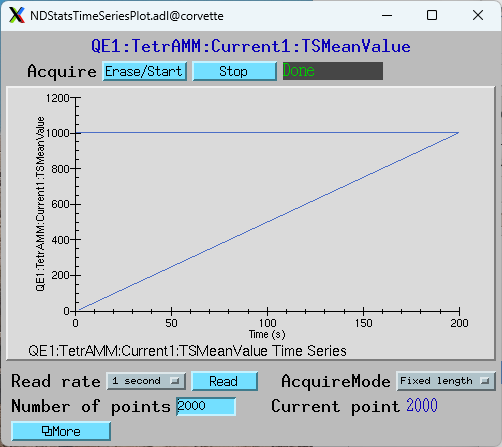
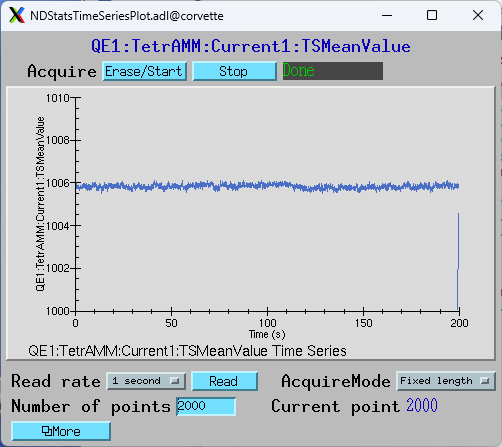
Add changes for b0511cdf89a5fc7938ce556146a25672b5e28608

diff --git a/searchindex.js b/searchindex.js
@@ -1,1 +1,1 @@
-Search.setIndex({"alltitles":{"AH401 and AH501 Series Setup":[[7,"ah401-and-ah501-series-setup"]],"AH401B":[[5,"ah401b"]],"Averaging":[[0,null]],"Databases":[[1,null]],"FX4 Setup":[[7,"fx4-setup"]],"Fly scan in external triggered mode with the statistics plugin":[[10,"fly-scan-in-external-triggered-mode-with-the-statistics-plugin"]],"Fly scan with quadEM in free-run mode":[[10,"fly-scan-with-quadem-in-free-run-mode"]],"NSLS2_EM Setup":[[7,"nsls2-em-setup"]],"NSLS_EM Setup":[[7,"nsls-em-setup"]],"Overview":[[4,null]],"Performance":[[5,null]],"Plugins":[[6,null]],"Scanning with the TetrAMM or FX4":[[10,null]],"Setup":[[7,null]],"Step scan with quadEM in single acquire mode":[[10,"step-scan-with-quadem-in-single-acquire-mode"]],"Streaming data to disk":[[8,null]],"Table of Contents":[[3,"table-of-contents"]],"TetrAMM":[[5,"tetramm"]],"TetrAMM Setup":[[7,"tetramm-setup"]],"TetrAMM and FX4 Trigger Modes":[[9,null]],"Using Feedback":[[2,null]],"quadEM":[[3,null]],"quadEM.template":[[1,"quadem-template"]]},"docnames":["averaging","databases","feedback","index","overview","performance","plugins","setup","streaming","tetramm_modes","tetramm_scanning"],"envversion":{"sphinx":66,"sphinx.domains.c":3,"sphinx.domains.changeset":1,"sphinx.domains.citation":1,"sphinx.domains.cpp":9,"sphinx.domains.index":1,"sphinx.domains.javascript":3,"sphinx.domains.math":2,"sphinx.domains.python":4,"sphinx.domains.rst":2,"sphinx.domains.std":2},"filenames":["averaging.rst","databases.rst","feedback.rst","index.rst","overview.rst","performance.rst","plugins.rst","setup.rst","streaming.rst","tetramm_modes.rst","tetramm_scanning.rst"],"indexentries":{},"objects":{},"objnames":{},"objtypes":{},"terms":{"0004s":1,"000s":1,"001s":1,"1000hz":6,"100na":1,"100ua":1,"10hz":4,"10ma":1,"10ua":1,"120na":1,"120ua":1,"1e":1,"1e12":1,"1e9":1,"1ma":1,"1ua":1,"20000hz":6,"500hz":4,"50e":8,"53ghz":5,"5ma":1,"5na":1,"5ua":1,"A":[1,2,4,7],"All":[1,6,7],"An":[1,7],"As":[1,8],"Both":[1,7],"Each":[4,7,9,10],"For":[1,4,6,9,10],"I":[1,2,4,9],"If":[1,7],"In":[1,4,6,8,10],"It":[0,1,4,5,6,7,8],"More":10,"Most":1,"No":4,"Off":1,"On":1,"That":[5,7,10],"The":[0,1,2,4,5,6,7,8,9,10],"There":[1,4,10],"These":[1,2,4,7,8],"They":[1,2,4,7],"This":[0,1,2,4,5,6,7,8,9,10],"To":[7,10],"Up":7,"We":8,"When":[4,6,7,9],"While":10,"With":10,"_rbv":1,"ab":8,"abl":1,"abov":[1,4,6,10],"absolut":8,"acceler":10,"access":[1,4,7],"accumul":[1,4,6],"accuraci":10,"acquir":[1,3],"acquiremod":[1,9,10],"acquiremode_rbv":1,"acquisit":[1,4,6,9,10],"actual":[1,7,10],"actuat":2,"adc":[1,4,9,10],"adcoffset":1,"adcor":[1,4,6,7,8],"add":[1,4],"addit":[0,4,6,7],"addr":1,"address":[6,7,8],"adjust":2,"adl":10,"ah401":[1,3,4,6],"ah401b":[1,3,4,7],"ah401d":[1,4],"ah501":[1,3,4,6],"ah501b":1,"ah501c":[1,4],"ah501d":[1,4],"ahxxx":7,"ai":[1,4],"algorithm":1,"allow":[1,4],"almost":8,"alreadi":1,"also":[1,4,6],"alway":1,"amp":[1,4],"amplifi":[1,4],"analog":4,"ani":[1,2,4,6],"anoth":4,"ao":1,"api":4,"appear":1,"appli":1,"applic":[4,6],"approxim":2,"aquisit":10,"arang":8,"arbitrarili":4,"areadetector":[1,4,6],"argument":1,"arrang":4,"array":[1,4,6,8],"arriv":[0,1,8],"ascii":[1,4],"assert":1,"assum":4,"asyn":[1,4,6],"asynfloat64":[1,4],"asynfloat64averag":[0,4],"asyngenericpoint":4,"asynint32":1,"asynndarraydriv":4,"asynoctet":1,"asynportdriv":4,"attribut":[2,8],"author":3,"auto":8,"automat":[1,8],"autosav":6,"avail":[1,4,6],"ave":[1,2],"averag":[1,2,3,4,6,10],"averagingtim":[0,1,4,5,6,8,10],"averagingtime_rbv":1,"avoid":1,"axe":1,"axi":[4,8],"b4":4,"back":1,"backward":8,"bandwidth":0,"base":[4,8,10],"beam":[2,4],"becaus":[1,4,6,8,10],"befor":[1,10],"begin":[1,4],"behavior":2,"bi":1,"bias":[1,4],"biasinterlock":1,"biasinterlock_rbv":1,"biasstat":1,"biasstate_rbv":1,"biasvoltag":1,"biasvoltage_rbv":1,"binari":[1,4],"binary4":5,"bit":[1,4,8],"blue":8,"bo":1,"bpm":2,"broadcast":7,"buffer":[1,4,5,6],"bug":10,"built":4,"bulb":1,"busi":1,"button":8,"bw":1,"c":8,"caen":7,"caenel":4,"calcout":1,"calcul":[1,4,8],"calibr":1,"calibrationmod":1,"call":[1,4,6,7,8],"callback":[1,4,6,8],"callbacksblock":4,"came":10,"can":[0,1,2,4,5,6,7,8,9,10],"canda":8,"capacitor":[1,4],"case":[1,2,4,5,6,10],"center":1,"chamber":[2,4],"chang":[1,4,7,8,10],"channel":[1,4,7],"charact":1,"charg":1,"chicago":3,"chip":4,"choic":1,"circular":[5,6],"class":4,"client":[1,4],"clock":7,"close":[1,7],"cmd":[4,6,7,8],"code":8,"collect":[0,1,6,8,10],"color":8,"column":8,"combin":4,"come":10,"command":[1,7],"commer":4,"common":10,"commonplugin":[4,6,7,8],"communic":[4,7],"compil":8,"complet":[1,9,10],"comptab":4,"comput":[1,4,6,8,10],"computecurrentoffset":1,"computeposoffset":1,"conda":8,"condit":[1,4,5],"configur":[1,4,6,7,8,9,10],"configuretrigg":7,"connect":7,"consist":4,"constructor":[1,4,6],"contain":[4,6,7,8],"content":8,"continu":[1,6,9,10],"control":[1,2,6,10],"conveni":1,"convent":8,"convert":[1,2,8],"copi":[1,4,6],"copyadcoffset":1,"core":[4,5],"correct":[1,7],"correspond":4,"corrupt":[1,4],"corvett":8,"count":[7,10],"counter":[1,7,9],"counterclockwis":4,"cp":2,"cpu":[1,4,5,7],"cpus":4,"crystal":2,"ctr08":10,"current":[1,2,4,6,7,8,10],"current1":[6,10],"currentnam":1,"currentoffset":1,"currentprec":1,"currentprec1":1,"currentprec2":1,"currentprec3":1,"currentscal":1,"currentunit":1,"currentunits_rbv":1,"custom":[1,4],"cycl":[1,10],"d":[1,2,8],"d1":[1,7,9],"data":[0,1,3,4,5,6,7,9,10],"databas":[3,4,7],"dataset":8,"dataspac":8,"datatyp":[6,8],"date":1,"dc":[6,8],"ddli":10,"deceler":10,"decreas":1,"default":[1,7,8],"defin":[1,4,6],"delay":10,"delimit":1,"depend":[0,1,2,4,6,7],"deriv":4,"describ":[4,9,10],"descript":[0,1,2,6],"design":[4,10],"desir":[2,7],"detail":4,"detect":1,"detector":[4,8,10],"determin":[1,4,6,7],"deviat":[1,4,6],"devic":[0,1,2,4,6,7,8],"dhcp":7,"diagram":4,"diamond":[1,4],"diff":[1,4,6],"diff12":4,"diff34":4,"differ":[0,1,4,6,8,9],"diffi":[1,4,6],"diffx":[1,4,6],"digit":[1,4,6,7,9],"digital_expans":7,"dimens":[4,6,8],"diod":[4,8],"direct":4,"directori":7,"disabl":[1,6],"disadvantag":1,"discard":1,"discuss":[1,4],"disk":[3,4],"display":[1,6,8],"divid":[4,6],"divisor":4,"document":4,"doe":[1,4,6,7,8,9],"done":[1,4,7],"doubl":[1,8],"download":1,"driver":[0,1,4,6,7,8,9],"drop":[1,7],"drvasynipportconfigur":7,"drvinfo":1,"drvquadem":4,"due":8,"durat":8,"dure":10,"duti":1,"e":[7,8,10],"e5630":5,"edg":[1,7,9,10],"edit":7,"effect":1,"effici":4,"either":[4,7],"el":7,"elaps":[1,10],"electomet":5,"electromet":[1,4],"element":8,"elettra":4,"els":8,"enabl":[1,5,6,7],"enablecallback":6,"encod":[1,7],"end":[1,8,10],"endian":8,"engin":1,"enough":1,"entri":8,"ep":4,"epic":[1,4,7,8,9],"epicsfloat64":6,"epid":[1,2],"equal":1,"equat":1,"equival":9,"erasestart":10,"etc":[1,4,6,7,10],"ethernet":4,"even":[8,10],"event":1,"everi":[1,4],"everyth":8,"exact":1,"exampl":[0,1,2,4,6,7,8,10],"except":[1,6,8],"exclus":8,"exist":1,"expens":[0,1],"explain":8,"ext":[1,10],"extern":[1,3,4,7],"external_clock_edge_select":7,"externalbulb":1,"externaltrigg":1,"extract":[4,8],"f":8,"f_ab":8,"factor":1,"fall":[1,9],"fast":[1,2,4,5],"fastaveragescan":1,"fastaveragingtim":[0,1,4],"fastaveragingtime_rbv":1,"faster":[1,4],"fastest":8,"feedback":[0,1,3,4,5],"fewer":1,"fft":[0,5,6,8],"fftfreq":8,"fftnumaverag":0,"ffts":[0,4,5,6],"field":[1,4],"file":[4,6,7,8],"file_cont":8,"filenam":8,"filewritemod":8,"filter":4,"final":10,"findgen":8,"firmwar":[1,4,9],"first":[4,6,8,9,10],"fix":6,"fli":[3,4,6],"float":1,"fluoresc":8,"follow":[1,2,4,5,6,7,8,9,10],"forc":1,"forg":8,"form":6,"format":[1,4],"forward":8,"found":[7,9],"four":4,"free":[1,3],"freez":7,"freq":8,"freqenc":8,"frequenc":[0,1,4,6,8],"frequent":1,"front":7,"full":[1,4],"function":[2,4,6],"futur":1,"fx":1,"fx4":[1,3,4],"fx4_cpu":1,"fxp":7,"g":[7,10],"gain":1,"gate":[1,7,9],"gbit":4,"general":1,"generat":[4,10],"generic":7,"geometri":[1,4],"geometry_rbv":1,"get":8,"give":[1,8],"given":7,"go":8,"good":7,"greater":[4,5,6],"group":8,"gt":1,"guarante":[1,10],"h5":8,"h5_getdata":8,"h5dump":8,"h5pi":8,"h5root":8,"h5t_ieee_f64l":8,"h5t_std_i32l":8,"half":[8,10],"hang":1,"happen":1,"hardwar":1,"harmon":8,"hdf5":[4,6,8],"header":8,"help":8,"henc":[4,10],"high":[1,4,7,8,9],"histogram":[1,4,6],"histori":6,"horizont":[6,10],"host":7,"howev":[1,7,9,10],"hvireadback":1,"hvsreadback":1,"hvvreadback":1,"hz":[1,2,4,5,6,8,9,10],"id":7,"idea":7,"ident":[1,4,8],"idl":8,"idl_hdf5_frequency_plot":8,"idl_hdf5_time_plot":8,"ieee":[1,8],"ignor":1,"illumin":8,"illustr":4,"immedi":1,"import":[1,8],"improv":[0,6],"includ":[1,4,6,7,8],"incorrect":[1,7,10],"increas":[1,4],"increment":[1,9],"independ":[1,4],"index":8,"individu":[2,4],"inform":[4,8],"initi":1,"input":[1,4,7,9],"instal":8,"instrument":8,"int":1,"integ":[1,4],"integr":[1,2,4],"integrationtim":[1,5],"integrationtime_rbv":1,"intens":[2,4,8],"interact":8,"interfac":[1,4],"interlock":1,"internal":[1,4,7],"intr":[1,4],"invok":7,"ioc":[1,4,6,7,8],"iocboot":[6,7,8],"ioctetramm":7,"iocxxx":7,"ion":[2,4],"ip":[4,7],"irrelev":10,"item":[6,8],"j":8,"json":4,"just":[4,8],"khz":[0,1,4,5,8,9],"know":[1,10],"kurtosi":0,"label":[1,4],"lantronix":7,"larg":4,"larger":1,"last":[1,6,8,10],"later":4,"lead":[1,10],"left":1,"length":[1,6],"less":[1,4,5,8],"level":1,"light":8,"like":[4,6],"limit":[1,4,8],"link":[1,2],"linux":[5,8],"list":6,"littl":8,"live":4,"lmvme5100":5,"load":[4,5,6,7,8],"log":8,"long":4,"longer":[1,10],"longin":1,"longout":1,"look":8,"loop":2,"lost":4,"low":[1,4],"ma":[1,4],"machin":[5,7],"maco":8,"make":8,"manag":7,"mani":[4,6],"manual":4,"mark":3,"market":4,"match":8,"max":4,"maximum":[0,1,5,6,9],"mb":8,"mbbi":1,"mbbo":1,"mbit":4,"mean":[0,1,4,10],"meanvalue_rbv":[1,2,6],"measur":[1,2,4,5,9,10],"medm":[1,2,6,8,10],"messag":7,"messagepack":4,"meter":[1,4,7],"micro":4,"microamp":1,"micron":2,"microsecond":[1,6,8],"might":0,"millisecond":6,"min":4,"minimum":[0,1,4,6],"minumum":1,"mm":10,"mode":[1,3,4,6,7],"model":[1,4],"modern":4,"modul":[2,4,7],"monitor":[1,2,4],"monochrom":2,"motion":[4,10],"motor":[4,10],"move":10,"ms":10,"much":10,"multipl":[1,9,10],"multipli":1,"must":[1,7,10],"mvme5100":5,"n":1,"na":[1,8],"name":[1,4],"nan":1,"nano":1,"nanoamp":1,"navig":10,"nchan":8,"ndarray":[1,4,6,8],"ndarraydimbin":8,"ndarraydimoffset":8,"ndarraydimrevers":8,"ndarrayepicstsnsec":8,"ndarrayepicstssec":8,"ndarraynumdim":8,"ndarraytimestamp":8,"ndarrayuniqueid":8,"ndattribut":8,"ndpluginfft":[4,6],"ndpluginpva":4,"ndpluginstat":[1,4,6,10],"ndpluginstdarray":4,"ndplugintimeseri":[4,6],"ndplugstat":0,"ndstat":10,"near":8,"necessari":[1,6],"necessarili":4,"need":7,"negat":1,"neglect":10,"netcdf":8,"network":[4,7],"new":[1,2],"next":[1,6],"nfft":8,"nois":[0,1,6],"nomin":9,"non":4,"norm":8,"normal":[1,4,8,10],"note":[1,4,6,8,9,10],"now":[4,8],"np":8,"npts":[8,10],"nsls":4,"nsls2":4,"nsls2_em":[1,3,4],"nsls2_ic":1,"nsls_em":[1,3,4],"numacquir":[1,9,10],"numacquire_rbv":1,"numaverag":4,"numaverage_rbv":[1,4,6,8],"numaveraged_rbv":[1,6],"number":[0,1,4,6,7,10],"numcaptur":8,"numchannel":[1,5],"numchannels_rbv":1,"numfastaverag":1,"numpi":8,"nx":8,"ny":8,"nyquist":8,"o":[1,4],"object":[1,4],"observ":1,"obtain":1,"occur":[1,8],"odd":8,"offset":[1,6,8],"often":2,"old":1,"oldest":1,"onc":7,"one":[1,4,8],"onli":[0,1,4,5,7,8,10],"op":4,"open":[1,10],"oper":[0,1,4,6,9],"order":1,"origin":4,"ortho":8,"others":4,"output":[1,2,4,8,10],"overflow":1,"overhard":10,"overhead":10,"overload":[1,7],"overview":3,"overwhelm":4,"p":[1,6],"p1":8,"p2":8,"pa":1,"packag":4,"packet":[1,7],"page":7,"panel":7,"paramet":[1,2,4],"particular":1,"pass":[0,1,4,6],"pc":1,"pcr4":[1,4],"peak":8,"per":[1,4,6,8,10],"percent":1,"perfect":10,"perform":[1,3,4,8,10],"period":[1,4,6,8,10],"phase":10,"phase0":1,"phase1":1,"photodiod":[2,4,8],"pico":1,"picoammet":4,"pid":2,"piezo":2,"ping":1,"pingpo":5,"pingpong":1,"pingpong_rbv":1,"pip":8,"pipelin":0,"pitch":2,"place":[0,4,6],"plot":[2,6,8,10],"plot_quadem":8,"plugin":[0,1,3,4,5,7,8],"png":8,"point":[4,6,8,9,10],"pong":1,"port":[7,8],"pos":[1,2,6],"posit":[1,2,4,6,7,9,10],"position":10,"position12":4,"position34":4,"position_count":7,"position_counter_sourc":7,"positioni":[4,6],"positionoffset":1,"positionprec":1,"positionscal":1,"positionscaley":2,"positionx":[4,6],"positionyav":2,"possibl":[1,2,4,10],"potenti":[1,4],"power":[1,4,6,8],"practic":[5,10],"precis":[1,9,10],"prefix":6,"press":[8,10],"prevent":1,"primari":[0,2,4],"principl":4,"prior":4,"pro":8,"probabl":5,"problem":[1,7],"process":[0,1,2,4,5,8],"processor":7,"produc":[4,5],"program":8,"programm":4,"proport":1,"protocol":[1,4],"provid":[0,1,4,6,7,8],"puls":[1,4,10],"put":1,"pv":[2,4,6,10],"pva":6,"pvaccess":4,"pvs":[4,7],"py_hdf5_frequency_plot":8,"py_hdf5_time_plot":8,"pyramid":4,"python":8,"qe":10,"qe_acquire_mod":1,"qe_averaging_tim":1,"qe_bias_interlock":1,"qe_bias_st":1,"qe_bias_voltag":1,"qe_calibration_mod":1,"qe_current_nam":1,"qe_current_offset":1,"qe_current_scal":1,"qe_firmwar":1,"qe_geometri":1,"qe_hvi_readback":1,"qe_hvs_readback":1,"qe_hvv_readback":1,"qe_integration_tim":1,"qe_model":1,"qe_num_acquir":1,"qe_num_averag":1,"qe_num_channel":1,"qe_ping_pong":1,"qe_position_offset":1,"qe_position_scal":1,"qe_rang":1,"qe_read_data":1,"qe_read_format":1,"qe_reset":1,"qe_resolut":1,"qe_ring_overflow":1,"qe_sample_tim":1,"qe_trigger_mod":1,"qe_trigger_polar":1,"qe_values_per_read":1,"qe_weight_xdelta":1,"qe_weight_xsum":1,"qe_weight_ydelta":1,"qe_weight_ysum":1,"qep_0":7,"quad":[2,4],"quadem":[0,2,4,6,7,8],"quadem_hdf5_001":8,"quadem_hdf5_roi_001":8,"quadem_plugin":[6,7],"qualifi":7,"quantiti":4,"r":[1,6,8],"r4":4,"r5":4,"r6":1,"r9":4,"ramp":1,"rang":[1,4],"range_rbv":1,"rate":[0,1,4,5,7,8,9,10],"rather":4,"ratio":6,"raw":1,"ray":4,"re":1,"reach":10,"reachabl":7,"read":[1,2,4,6,8,10],"readback":[1,2,10],"readdata":1,"readformat":[1,5],"readformat_rbv":1,"readout":4,"reason":[1,5],"reboot":1,"receiv":[0,1,4,6,8],"recent":6,"record":[0,1,2,4,5,6,7,10],"red":8,"reduc":[1,7],"reform":8,"reformat":8,"regist":[1,4,6],"relat":1,"reliabl":9,"remov":1,"reord":1,"request":0,"requir":[1,4],"reset":1,"resolut":[1,4],"resolution_rbv":1,"resourc":4,"respect":10,"respons":2,"rest":4,"restor":6,"result":[0,1,8],"retrac":10,"retransmiss":1,"retransmit":7,"return":1,"right":4,"ring":[1,4,6],"ringbuffers":1,"ringoverflow":1,"rise":[1,9],"river":3,"robust":1,"roi":[4,6,8],"roi1":8,"roll":2,"rotari":7,"run":[1,3,4,7,8],"s":[1,4,7,8,10],"sampl":[0,1,4,6,7,8],"sample_tim":8,"sampletim":[1,4,6],"sampletime_rbv":1,"satur":1,"save":[6,8],"save_figur":8,"scalar":8,"scale":[1,8,10],"scan":[1,3,4,5,6],"scope":[4,6],"scratch":8,"screen":[1,2,6,8,10],"script":[1,7],"sec":1,"second":[1,2,4,5,6,8,10],"secondari":0,"section":[4,8],"seen":[5,7],"select":[1,7,8],"send":[1,7,8],"sens":4,"sensic":4,"sensit":1,"sent":1,"separ":[4,6],"seri":[0,1,3,4,5,6,8,10],"serial":4,"server":4,"set":[1,2,4,6,7,8,10],"setpoint":2,"settl":10,"setup":3,"sever":4,"shape":8,"shot":10,"show":[2,5,6],"shown":10,"si":4,"sigma":0,"signal":[0,1,2,4,6,8,9],"signific":1,"similar":4,"simpl":8,"sinc":[1,7,8],"singl":[1,3,5,9],"size":[1,4,6,8],"skew":0,"slower":1,"softdevic":1,"softquad":4,"softwar":[1,4,7,9],"sold":4,"somehow":1,"sometim":1,"somewhat":8,"sourc":[2,4,7,10],"space":8,"specif":[1,6,7],"specifi":[1,6,7],"spectrum":[4,6,8],"speed":[1,4,6,9,10],"split":4,"sqrt":8,"squar":[1,4],"squarecc":[1,4],"sscan":[1,10],"st":7,"stabil":2,"stage":4,"standard":[1,4,6,8],"start":[6,8,10],"startup":[1,7],"state":[1,10],"static":7,"statist":[0,1,3,4,6],"status":1,"stay":1,"std":2,"step":[1,3],"still":5,"stop":[1,6,9],"stream":[1,3,4,7,9],"stream_en":7,"string":1,"stringin":1,"subnet":7,"subtract":1,"suffici":1,"suit":6,"sum":[1,2,4,6,8],"sum12":4,"sum1234":4,"sum34":4,"sum_al":8,"sumal":[1,2,4,6,8],"sumallav":2,"sumi":[1,4,6],"sumx":[1,4,6],"suppli":[1,4],"support":[0,1,4,7,9],"suppress":6,"suscept":[4,7],"sval":[1,4],"switch":7,"sydor":4,"synapp":[2,4],"synchron":[1,4,7,10],"synchrotron":4,"system":5,"t4u":[1,4],"tab":7,"tabl":[2,5,6,9],"take":[1,8],"target":10,"tcp":[1,4,7],"templat":3,"term":[2,4],"termin":[1,4],"test":[9,10],"tetramm":[0,1,3,4,6,8],"th":8,"though":4,"thread":[4,6],"thus":[1,4,10],"tiff":[6,8],"time":[0,1,2,4,5,6,8,10],"timeseri":1,"timestamp":[8,9],"titl":8,"took":10,"total":[8,10],"trail":[1,10],"transconduct":4,"transform":1,"transimped":4,"transit":9,"transmit":1,"travel":10,"treat":1,"tri":1,"trig":[1,10],"trigger":[1,3,4,7],"triggercount":1,"triggerlevel":1,"triggermod":[1,10],"triggerpolar":1,"true":[1,7,8],"ts":[0,6],"tsacquir":10,"tsacquiremod":5,"tsaveragingtim":[0,5],"tsmeanvalu":10,"tsnumpoint":5,"tsread":5,"tune":2,"turn":[1,4],"two":[1,4],"type":[1,6,10],"typic":[1,4],"ua":1,"udp":[4,7],"uniqu":7,"unit":[1,2,4],"universiti":3,"unknown":1,"unlik":[1,4],"updat":[1,4,5,10],"upstream":0,"usb":10,"use":[0,1,3,4,5,6,7,8,9,10],"user":[1,4],"util":5,"v":8,"v1":1,"v2":1,"valu":[0,1,4,5,6,7,8,10],"valuesperread":[0,1,5,7,8,9,10],"valuesperread_rbv":1,"vari":8,"variabl":8,"variant":4,"various":10,"veloc":10,"veri":4,"version":[1,4],"vertic":[2,8],"via":[4,7],"view":4,"voltag":[1,2],"vs":8,"vxwork":5,"w":1,"wait":[1,10],"waitforplugin":1,"wasteful":8,"waveform":[1,4,5,10],"way":[1,10],"web":[4,7],"websocket":4,"weight":[1,4],"weightxdelta":1,"weightxsum":1,"weightydelta":1,"weightysum":1,"well":1,"whose":[4,6],"widget":1,"will":[1,6,7,8,10],"win":8,"window":8,"within":10,"without":1,"work":[4,9,10],"worst":5,"write":[1,4],"writer":4,"written":1,"wxmplot":8,"wxpython":8,"x":[1,2,4,6],"xdsoxford":4,"xeon":5,"xlabel":[1,4,8],"xtitl":8,"y":[1,2,4,6],"yes":[1,5,8],"ylabel":[1,4,8],"ylog":8,"ylog_scal":8,"ymax":8,"ymin":8,"yrang":8,"ytitl":8,"zynq":[4,7]},"titles":["Averaging","Databases","Using Feedback","quadEM","Overview","Performance","Plugins","Setup","Streaming data to disk","TetrAMM and FX4 Trigger Modes","Scanning with the TetrAMM or FX4"],"titleterms":{"acquir":10,"ah401":7,"ah401b":5,"ah501":7,"averag":0,"content":3,"data":8,"databas":1,"disk":8,"extern":10,"feedback":2,"fli":10,"free":10,"fx4":[7,9,10],"mode":[9,10],"nsls2_em":7,"nsls_em":7,"overview":4,"perform":5,"plugin":[6,10],"quadem":[1,3,10],"run":10,"scan":10,"seri":7,"setup":7,"singl":10,"statist":10,"step":10,"stream":8,"tabl":3,"templat":1,"tetramm":[5,7,9,10],"trigger":[9,10],"use":2}})
+Search.setIndex({"alltitles":{"AH401 and AH501 Series Setup":[[7,"ah401-and-ah501-series-setup"]],"AH401B":[[5,"ah401b"]],"Averaging":[[0,null]],"Databases":[[1,null]],"FX4 Setup":[[7,"fx4-setup"]],"Fly scan in external triggered mode with the statistics plugin":[[10,"fly-scan-in-external-triggered-mode-with-the-statistics-plugin"]],"Fly scan with quadEM in free-run mode":[[10,"fly-scan-with-quadem-in-free-run-mode"]],"NSLS2_EM Setup":[[7,"nsls2-em-setup"]],"NSLS_EM Setup":[[7,"nsls-em-setup"]],"Overview":[[4,null]],"Performance":[[5,null]],"Plugins":[[6,null]],"Scanning with the TetrAMM or FX4":[[10,null]],"Setup":[[7,null]],"Step scan with quadEM in single acquire mode":[[10,"step-scan-with-quadem-in-single-acquire-mode"]],"Streaming data to disk":[[8,null]],"Table of Contents":[[3,"table-of-contents"]],"TetrAMM":[[5,"tetramm"]],"TetrAMM Setup":[[7,"tetramm-setup"]],"TetrAMM and FX4 Trigger Modes":[[9,null]],"Using Feedback":[[2,null]],"quadEM":[[3,null]],"quadEM.template":[[1,"quadem-template"]]},"docnames":["averaging","databases","feedback","index","overview","performance","plugins","setup","streaming","tetramm_modes","tetramm_scanning"],"envversion":{"sphinx":66,"sphinx.domains.c":3,"sphinx.domains.changeset":1,"sphinx.domains.citation":1,"sphinx.domains.cpp":9,"sphinx.domains.index":1,"sphinx.domains.javascript":3,"sphinx.domains.math":2,"sphinx.domains.python":4,"sphinx.domains.rst":2,"sphinx.domains.std":2},"filenames":["averaging.rst","databases.rst","feedback.rst","index.rst","overview.rst","performance.rst","plugins.rst","setup.rst","streaming.rst","tetramm_modes.rst","tetramm_scanning.rst"],"indexentries":{},"objects":{},"objnames":{},"objtypes":{},"terms":{"0004s":1,"000s":1,"001s":1,"1000hz":6,"100na":1,"100ua":1,"10hz":4,"10ma":1,"10ua":1,"120na":1,"120ua":1,"1e":1,"1e12":1,"1e9":1,"1ma":1,"1ua":1,"20000hz":6,"500hz":4,"50e":8,"53ghz":5,"5ma":1,"5na":1,"5ua":1,"A":[1,2,4,7],"All":[1,6,7],"An":[1,7],"As":[1,8],"Both":[1,7],"Each":[4,7,9,10],"For":[1,4,6,9,10],"I":[1,2,4,9],"If":[1,7],"In":[1,4,6,8,10],"It":[0,1,4,5,6,7,8],"More":10,"Most":1,"No":4,"Off":1,"On":1,"That":[5,7,10],"The":[0,1,2,4,5,6,7,8,9,10],"There":[1,4,10],"These":[1,2,4,7,8],"They":[1,2,4,7],"This":[0,1,2,4,5,6,7,8,9,10],"To":[7,10],"Up":7,"We":8,"When":[4,6,7,9],"While":10,"With":10,"_rbv":1,"ab":8,"abl":1,"abov":[1,4,6,10],"absolut":8,"acceler":10,"access":[1,4,7],"accumul":[1,4,6],"accuraci":10,"acquir":[1,3],"acquiremod":[1,9,10],"acquiremode_rbv":1,"acquisit":[1,4,6,9,10],"actual":[1,7,10],"actuat":2,"adc":[1,4,9,10],"adcoffset":1,"adcor":[1,4,6,7,8],"add":[1,4],"addit":[0,4,6,7],"addr":1,"address":[6,7,8],"adjust":2,"adl":10,"ah401":[1,3,4,6],"ah401b":[1,3,4,7],"ah401d":[1,4],"ah501":[1,3,4,6],"ah501b":1,"ah501c":[1,4],"ah501d":[1,4],"ahxxx":7,"ai":[1,4],"algorithm":1,"allow":[1,4],"almost":8,"alreadi":1,"also":[1,4,6],"alway":1,"amp":[1,4],"amplifi":[1,4],"analog":4,"ani":[1,2,4,6],"anoth":4,"ao":1,"api":4,"appear":1,"appli":1,"applic":[4,6],"approxim":2,"aquisit":10,"arang":8,"arbitrarili":4,"areadetector":[1,4,6],"argument":1,"arrang":4,"array":[1,4,6,8],"arriv":[0,1,8],"ascii":[1,4],"assert":1,"assum":4,"asyn":[1,4,6],"asynfloat64":[1,4],"asynfloat64averag":[0,4],"asyngenericpoint":4,"asynint32":1,"asynndarraydriv":4,"asynoctet":1,"asynportdriv":4,"attribut":[2,8],"author":3,"auto":8,"automat":[1,8],"autosav":6,"avail":[1,4,6],"ave":[1,2],"averag":[1,2,3,4,6,10],"averagingtim":[0,1,4,5,6,8,10],"averagingtime_rbv":1,"avoid":1,"axe":1,"axi":[4,8],"b4":4,"back":1,"backward":8,"bandwidth":0,"base":[4,8,10],"beam":[2,4],"becaus":[1,4,6,8,10],"befor":[1,10],"begin":[1,4],"behavior":2,"bi":1,"bias":[1,4],"biasinterlock":1,"biasinterlock_rbv":1,"biasstat":1,"biasstate_rbv":1,"biasvoltag":1,"biasvoltage_rbv":1,"binari":[1,4],"binary4":5,"bit":[1,4,8],"blue":8,"bo":1,"bpm":2,"broadcast":7,"buffer":[1,4,5,6],"bug":10,"built":4,"bulb":1,"busi":1,"button":8,"bw":1,"c":8,"caen":7,"caenel":4,"calcout":1,"calcul":[1,4,8],"calibr":1,"calibrationmod":1,"call":[1,4,6,7,8],"callback":[1,4,6,8],"callbacksblock":4,"came":10,"can":[0,1,2,4,5,6,7,8,9,10],"canda":8,"capacitor":[1,4],"case":[1,2,4,5,6,10],"center":1,"chamber":[2,4],"chang":[1,4,7,8,10],"channel":[1,4,7],"charact":1,"charg":1,"chicago":3,"chip":4,"choic":1,"circular":[5,6],"class":4,"client":[1,4],"clock":7,"close":[1,7],"cmd":[4,6,7,8],"code":8,"collect":[0,1,6,8,10],"color":8,"column":8,"combin":4,"come":10,"command":[1,7],"commer":4,"common":10,"commonplugin":[4,6,7,8],"communic":[4,7],"compil":8,"complet":[1,9,10],"comptab":4,"comput":[1,4,6,8,10],"computecurrentoffset":1,"computeposoffset":1,"conda":8,"condit":[1,4,5],"configur":[1,4,6,7,8,9,10],"configuretrigg":7,"connect":7,"consist":4,"constructor":[1,4,6],"contain":[4,6,7,8],"content":8,"continu":[1,6,9,10],"control":[1,2,6,10],"conveni":1,"convent":8,"convert":[1,2,8],"copi":[1,4,6],"copyadcoffset":1,"core":[4,5],"correct":[1,7],"correspond":4,"corrupt":[1,4],"corvett":8,"count":[7,10],"counter":[1,7,9],"counterclockwis":4,"cp":2,"cpu":[1,4,5,7],"cpus":4,"crystal":2,"ctr08":10,"current":[1,2,4,6,7,8,10],"current1":[6,10],"currentnam":1,"currentoffset":1,"currentprec":1,"currentprec1":1,"currentprec2":1,"currentprec3":1,"currentscal":1,"currentunit":1,"currentunits_rbv":1,"custom":[1,4],"cycl":[1,10],"d":[1,2,8],"d1":[1,7,9],"data":[0,1,3,4,5,6,7,9,10],"databas":[3,4,7],"dataset":8,"dataspac":8,"datatyp":[6,8],"date":1,"dc":[6,8],"ddli":10,"deceler":10,"decreas":1,"default":[1,7,8],"defin":[1,4,6],"delay":10,"delimit":1,"depend":[0,1,2,4,6,7],"deriv":4,"describ":[4,9,10],"descript":[0,1,2,6],"design":[4,10],"desir":[2,7],"detail":4,"detect":1,"detector":[4,8,10],"determin":[1,4,6,7],"deviat":[1,4,6],"devic":[0,1,2,4,6,7,8],"dhcp":7,"diagram":4,"diamond":[1,4],"diff":[1,4,6],"diff12":4,"diff34":4,"differ":[0,1,4,6,8,9],"diffi":[1,4,6],"diffx":[1,4,6],"digit":[1,4,6,7,9],"digital_expans":7,"dimens":[4,6,8],"diod":[4,8],"direct":4,"directori":7,"disabl":[1,6],"disadvantag":1,"discard":1,"discuss":[1,4],"disk":[3,4],"display":[1,6,8],"divid":[4,6],"divisor":4,"document":4,"doe":[1,4,6,7,8,9],"done":[1,4,7],"doubl":[1,8],"download":1,"driver":[0,1,4,6,7,8,9],"drop":[1,7],"drvasynipportconfigur":7,"drvinfo":1,"drvquadem":4,"due":8,"durat":8,"dure":10,"duti":1,"e":[7,8,10],"e5630":5,"edg":[1,7,9,10],"edit":7,"effect":1,"effici":4,"either":[4,7],"el":7,"elaps":[1,10],"electomet":5,"electromet":[1,4],"element":8,"elettra":4,"els":8,"enabl":[1,5,6,7],"enablecallback":6,"encod":[1,7],"end":[1,8,10],"endian":8,"engin":1,"enough":1,"entri":8,"ep":4,"epic":[1,4,7,8,9],"epicsfloat64":6,"epid":[1,2],"equal":1,"equat":1,"equival":9,"erasestart":10,"etc":[1,4,6,7,10],"ethernet":4,"even":[8,10],"event":1,"everi":[1,4],"everyth":8,"exact":1,"exampl":[0,1,2,4,6,7,8,10],"except":[1,6,8],"exclus":8,"exist":1,"expand":10,"expens":[0,1],"explain":8,"ext":[1,10],"extern":[1,3,4,7],"external_clock_edge_select":7,"externalbulb":1,"externaltrigg":1,"extract":[4,8],"f":8,"f_ab":8,"factor":1,"fall":[1,9],"fast":[1,2,4,5],"fastaveragescan":1,"fastaveragingtim":[0,1,4],"fastaveragingtime_rbv":1,"faster":[1,4],"fastest":8,"feedback":[0,1,3,4,5],"fewer":1,"fft":[0,5,6,8],"fftfreq":8,"fftnumaverag":0,"ffts":[0,4,5,6],"field":[1,4],"file":[4,6,7,8],"file_cont":8,"filenam":8,"filewritemod":8,"filter":4,"final":10,"findgen":8,"firmwar":[1,4,9],"first":[4,6,8,9,10],"fix":6,"fli":[3,4,6],"float":1,"fluoresc":8,"follow":[1,2,4,5,6,7,8,9,10],"forc":1,"forg":8,"form":6,"format":[1,4],"forward":8,"found":[7,9],"four":4,"free":[1,3],"freez":7,"freq":8,"freqenc":8,"frequenc":[0,1,4,6,8],"frequent":1,"front":7,"full":[1,4],"function":[2,4,6],"futur":1,"fx":1,"fx4":[1,3,4],"fx4_cpu":1,"fxp":7,"g":[7,10],"gain":1,"gate":[1,7,9],"gbit":4,"general":1,"generat":[4,10],"generic":7,"geometri":[1,4],"geometry_rbv":1,"get":8,"give":[1,8],"given":7,"go":8,"good":7,"greater":[4,5,6],"group":8,"gt":1,"guarante":[1,10],"h5":8,"h5_getdata":8,"h5dump":8,"h5pi":8,"h5root":8,"h5t_ieee_f64l":8,"h5t_std_i32l":8,"half":[8,10],"hang":1,"happen":1,"hardwar":1,"harmon":8,"hdf5":[4,6,8],"header":8,"help":8,"henc":[4,10],"high":[1,4,7,8,9],"histogram":[1,4,6],"histori":6,"horizont":[6,10],"host":7,"howev":[1,7,9,10],"hvireadback":1,"hvsreadback":1,"hvvreadback":1,"hz":[1,2,4,5,6,8,9,10],"id":7,"idea":7,"ident":[1,4,8],"idl":8,"idl_hdf5_frequency_plot":8,"idl_hdf5_time_plot":8,"ieee":[1,8],"ignor":1,"illumin":8,"illustr":4,"immedi":1,"import":[1,8],"improv":[0,6],"includ":[1,4,6,7,8],"incorrect":[1,7,10],"increas":[1,4],"increment":[1,9],"independ":[1,4],"index":8,"individu":[2,4],"inform":[4,8],"initi":1,"input":[1,4,7,9],"instal":8,"instrument":8,"int":1,"integ":[1,4],"integr":[1,2,4],"integrationtim":[1,5],"integrationtime_rbv":1,"intens":[2,4,8],"interact":8,"interfac":[1,4],"interlock":1,"internal":[1,4,7],"intr":[1,4],"invok":7,"ioc":[1,4,6,7,8],"iocboot":[6,7,8],"ioctetramm":7,"iocxxx":7,"ion":[2,4],"ip":[4,7],"irrelev":10,"item":[6,8],"j":8,"json":4,"just":[4,8],"khz":[0,1,4,5,8,9],"know":[1,10],"kurtosi":0,"label":[1,4],"lantronix":7,"larg":4,"larger":1,"last":[1,6,8,10],"later":4,"lead":[1,10],"left":1,"length":[1,6],"less":[1,4,5,8],"level":1,"light":8,"like":[4,6],"limit":[1,4,8],"link":[1,2],"linux":[5,8],"list":6,"littl":8,"live":4,"lmvme5100":5,"load":[4,5,6,7,8],"log":8,"long":4,"longer":[1,10],"longin":1,"longout":1,"look":8,"loop":2,"lost":4,"low":[1,4],"ma":[1,4],"machin":[5,7],"maco":8,"make":8,"manag":7,"mani":[4,6],"manual":4,"mark":3,"market":4,"match":8,"max":4,"maximum":[0,1,5,6,9],"mb":8,"mbbi":1,"mbbo":1,"mbit":4,"mean":[0,1,4,10],"meanvalue_rbv":[1,2,6],"measur":[1,2,4,5,9,10],"medm":[1,2,6,8,10],"messag":7,"messagepack":4,"meter":[1,4,7],"micro":4,"microamp":1,"micron":2,"microsecond":[1,6,8],"might":0,"millisecond":6,"min":4,"minimum":[0,1,4,6],"minumum":1,"mm":10,"mode":[1,3,4,6,7],"model":[1,4],"modern":4,"modul":[2,4,7],"monitor":[1,2,4],"monochrom":2,"motion":[4,10],"motor":[4,10],"move":10,"ms":10,"much":10,"multipl":[1,9,10],"multipli":1,"must":[1,7,10],"mvme5100":5,"n":1,"na":[1,8],"name":[1,4],"nan":1,"nano":1,"nanoamp":1,"navig":10,"nchan":8,"ndarray":[1,4,6,8],"ndarraydimbin":8,"ndarraydimoffset":8,"ndarraydimrevers":8,"ndarrayepicstsnsec":8,"ndarrayepicstssec":8,"ndarraynumdim":8,"ndarraytimestamp":8,"ndarrayuniqueid":8,"ndattribut":8,"ndpluginfft":[4,6],"ndpluginpva":4,"ndpluginstat":[1,4,6,10],"ndpluginstdarray":4,"ndplugintimeseri":[4,6],"ndplugstat":0,"ndstat":10,"near":8,"necessari":[1,6],"necessarili":4,"need":7,"negat":1,"neglect":10,"netcdf":8,"network":[4,7],"new":[1,2],"next":[1,6],"nfft":8,"nois":[0,1,6],"nomin":9,"non":4,"norm":8,"normal":[1,4,8,10],"note":[1,4,6,8,9,10],"now":[4,8],"np":8,"npts":[8,10],"nsls":4,"nsls2":4,"nsls2_em":[1,3,4],"nsls2_ic":1,"nsls_em":[1,3,4],"numacquir":[1,9,10],"numacquire_rbv":1,"numaverag":4,"numaverage_rbv":[1,4,6,8],"numaveraged_rbv":[1,6],"number":[0,1,4,6,7,10],"numcaptur":8,"numchannel":[1,5],"numchannels_rbv":1,"numfastaverag":1,"numpi":8,"nx":8,"ny":8,"nyquist":8,"o":[1,4],"object":[1,4],"observ":1,"obtain":1,"occur":[1,8],"odd":8,"offset":[1,6,8],"often":2,"old":1,"oldest":1,"onc":7,"one":[1,4,8],"onli":[0,1,4,5,7,8,10],"op":4,"open":[1,10],"oper":[0,1,4,6,9],"order":1,"origin":4,"ortho":8,"others":4,"output":[1,2,4,8,10],"overflow":1,"overhard":10,"overhead":10,"overload":[1,7],"overview":3,"overwhelm":4,"p":[1,6],"p1":8,"p2":8,"pa":1,"packag":4,"packet":[1,7],"page":7,"panel":7,"paramet":[1,2,4],"particular":1,"pass":[0,1,4,6],"pc":1,"pcr4":[1,4],"peak":8,"per":[1,4,6,8,10],"percent":1,"perfect":10,"perform":[1,3,4,8,10],"period":[1,4,6,8,10],"phase":10,"phase0":1,"phase1":1,"photodiod":[2,4,8],"pico":1,"picoammet":4,"pid":2,"piezo":2,"ping":1,"pingpo":5,"pingpong":1,"pingpong_rbv":1,"pip":8,"pipelin":0,"pitch":2,"place":[0,4,6],"plot":[2,6,8,10],"plot_quadem":8,"plugin":[0,1,3,4,5,7,8],"png":8,"point":[4,6,8,9,10],"pong":1,"port":[7,8],"pos":[1,2,6],"posit":[1,2,4,6,7,9,10],"position":10,"position12":4,"position34":4,"position_count":7,"position_counter_sourc":7,"positioni":[4,6],"positionoffset":1,"positionprec":1,"positionscal":1,"positionscaley":2,"positionx":[4,6],"positionyav":2,"possibl":[1,2,4,10],"potenti":[1,4],"power":[1,4,6,8],"practic":[5,10],"precis":[1,9,10],"prefix":6,"press":[8,10],"prevent":1,"primari":[0,2,4],"principl":4,"prior":4,"pro":8,"probabl":5,"problem":[1,7],"process":[0,1,2,4,5,8],"processor":7,"produc":[4,5],"program":8,"programm":4,"proport":1,"protocol":[1,4],"provid":[0,1,4,6,7,8],"puls":[1,4,10],"put":1,"pv":[2,4,6,10],"pva":6,"pvaccess":4,"pvs":[4,7],"py_hdf5_frequency_plot":8,"py_hdf5_time_plot":8,"pyramid":4,"python":8,"qe":10,"qe_acquire_mod":1,"qe_averaging_tim":1,"qe_bias_interlock":1,"qe_bias_st":1,"qe_bias_voltag":1,"qe_calibration_mod":1,"qe_current_nam":1,"qe_current_offset":1,"qe_current_scal":1,"qe_firmwar":1,"qe_geometri":1,"qe_hvi_readback":1,"qe_hvs_readback":1,"qe_hvv_readback":1,"qe_integration_tim":1,"qe_model":1,"qe_num_acquir":1,"qe_num_averag":1,"qe_num_channel":1,"qe_ping_pong":1,"qe_position_offset":1,"qe_position_scal":1,"qe_rang":1,"qe_read_data":1,"qe_read_format":1,"qe_reset":1,"qe_resolut":1,"qe_ring_overflow":1,"qe_sample_tim":1,"qe_trigger_mod":1,"qe_trigger_polar":1,"qe_values_per_read":1,"qe_weight_xdelta":1,"qe_weight_xsum":1,"qe_weight_ydelta":1,"qe_weight_ysum":1,"qep_0":7,"quad":[2,4],"quadem":[0,2,4,6,7,8],"quadem_hdf5_001":8,"quadem_hdf5_roi_001":8,"quadem_plugin":[6,7],"qualifi":7,"quantiti":4,"r":[1,6,8],"r4":4,"r5":4,"r6":1,"r9":4,"ramp":1,"rang":[1,4],"range_rbv":1,"rate":[0,1,4,5,7,8,9,10],"rather":4,"ratio":6,"raw":1,"ray":4,"re":1,"reach":10,"reachabl":7,"read":[1,2,4,6,8,10],"readback":[1,2,10],"readdata":1,"readformat":[1,5],"readformat_rbv":1,"readout":4,"reason":[1,5],"reboot":1,"receiv":[0,1,4,6,8],"recent":6,"record":[0,1,2,4,5,6,7,10],"red":8,"reduc":[1,7],"reform":8,"reformat":8,"regist":[1,4,6],"relat":1,"reliabl":9,"remov":1,"reord":1,"request":0,"requir":[1,4],"reset":1,"resolut":[1,4],"resolution_rbv":1,"resourc":4,"respect":10,"respons":2,"rest":4,"restor":6,"result":[0,1,8],"retrac":10,"retransmiss":1,"retransmit":7,"return":1,"right":4,"ring":[1,4,6],"ringbuffers":1,"ringoverflow":1,"rise":[1,9],"river":3,"robust":1,"roi":[4,6,8],"roi1":8,"roll":2,"rotari":7,"run":[1,3,4,7,8],"s":[1,4,7,8,10],"sampl":[0,1,4,6,7,8],"sample_tim":8,"sampletim":[1,4,6],"sampletime_rbv":1,"satur":1,"save":[6,8],"save_figur":8,"scalar":8,"scale":[1,8,10],"scan":[1,3,4,5,6],"scope":[4,6],"scratch":8,"screen":[1,2,6,8,10],"script":[1,7],"sec":1,"second":[1,2,4,5,6,8,10],"secondari":0,"section":[4,8],"seen":[5,7],"select":[1,7,8],"send":[1,7,8],"sens":4,"sensic":4,"sensit":1,"sent":1,"separ":[4,6],"seri":[0,1,3,4,5,6,8,10],"serial":4,"server":4,"set":[1,2,4,6,7,8,10],"setpoint":2,"settl":10,"setup":3,"sever":4,"shape":8,"shot":10,"show":[2,5,6,10],"shown":10,"si":4,"sigma":0,"signal":[0,1,2,4,6,8,9],"signific":1,"similar":4,"simpl":8,"sinc":[1,7,8],"singl":[1,3,5,9],"size":[1,4,6,8],"skew":0,"slower":1,"small":10,"softdevic":1,"softquad":4,"softwar":[1,4,7,9],"sold":4,"somehow":1,"sometim":1,"somewhat":8,"sourc":[2,4,7,10],"space":8,"specif":[1,6,7],"specifi":[1,6,7],"spectrum":[4,6,8],"speed":[1,4,6,9,10],"split":4,"sqrt":8,"squar":[1,4],"squarecc":[1,4],"sscan":[1,10],"st":7,"stabil":2,"stage":4,"standard":[1,4,6,8],"start":[6,8,10],"startup":[1,7],"state":[1,10],"static":7,"statist":[0,1,3,4,6],"status":1,"stay":1,"std":2,"step":[1,3],"still":5,"stop":[1,6,9],"stream":[1,3,4,7,9],"stream_en":7,"string":1,"stringin":1,"subnet":7,"subtract":1,"suffici":1,"suit":6,"sum":[1,2,4,6,8],"sum12":4,"sum1234":4,"sum34":4,"sum_al":8,"sumal":[1,2,4,6,8],"sumallav":2,"sumi":[1,4,6],"sumx":[1,4,6],"suppli":[1,4],"support":[0,1,4,7,9],"suppress":6,"suscept":[4,7],"sval":[1,4],"switch":7,"sydor":4,"synapp":[2,4],"synchron":[1,4,7,10],"synchrotron":4,"system":5,"t4u":[1,4],"tab":7,"tabl":[2,5,6,9],"take":[1,8],"target":10,"tcp":[1,4,7],"templat":3,"term":[2,4],"termin":[1,4],"test":[9,10],"tetramm":[0,1,3,4,6,8],"th":8,"though":4,"thread":[4,6],"thus":[1,4,10],"tiff":[6,8],"time":[0,1,2,4,5,6,8,10],"timeseri":1,"timestamp":[8,9],"titl":8,"took":10,"total":[8,10],"trail":[1,10],"transconduct":4,"transform":1,"transimped":4,"transit":9,"transmit":1,"travel":10,"treat":1,"tri":1,"trig":[1,10],"trigger":[1,3,4,7],"triggercount":1,"triggerlevel":1,"triggermod":[1,10],"triggerpolar":1,"true":[1,7,8],"ts":[0,6],"tsacquir":10,"tsacquiremod":5,"tsaveragingtim":[0,5],"tsmeanvalu":10,"tsnumpoint":5,"tsread":5,"tune":2,"turn":[1,4],"two":[1,4],"type":[1,6,10],"typic":[1,4],"ua":1,"udp":[4,7],"uniqu":7,"unit":[1,2,4],"universiti":3,"unknown":1,"unlik":[1,4],"updat":[1,4,5,10],"upstream":0,"usb":10,"use":[0,1,3,4,5,6,7,8,9,10],"user":[1,4],"util":5,"v":8,"v1":1,"v2":1,"valu":[0,1,4,5,6,7,8,10],"valuesperread":[0,1,5,7,8,9,10],"valuesperread_rbv":1,"vari":8,"variabl":8,"variant":4,"variat":10,"various":10,"veloc":10,"veri":4,"version":[1,4],"vertic":[2,8,10],"via":[4,7],"view":4,"voltag":[1,2],"vs":8,"vxwork":5,"w":1,"wait":[1,10],"waitforplugin":1,"wasteful":8,"waveform":[1,4,5,10],"way":[1,10],"web":[4,7],"websocket":4,"weight":[1,4],"weightxdelta":1,"weightxsum":1,"weightydelta":1,"weightysum":1,"well":1,"whose":[4,6],"widget":1,"will":[1,6,7,8,10],"win":8,"window":8,"within":10,"without":1,"work":[4,9,10],"worst":5,"write":[1,4],"writer":4,"written":1,"wxmplot":8,"wxpython":8,"x":[1,2,4,6],"xdsoxford":4,"xeon":5,"xlabel":[1,4,8],"xtitl":8,"y":[1,2,4,6],"yes":[1,5,8],"ylabel":[1,4,8],"ylog":8,"ylog_scal":8,"ymax":8,"ymin":8,"yrang":8,"ytitl":8,"zynq":[4,7]},"titles":["Averaging","Databases","Using Feedback","quadEM","Overview","Performance","Plugins","Setup","Streaming data to disk","TetrAMM and FX4 Trigger Modes","Scanning with the TetrAMM or FX4"],"titleterms":{"acquir":10,"ah401":7,"ah401b":5,"ah501":7,"averag":0,"content":3,"data":8,"databas":1,"disk":8,"extern":10,"feedback":2,"fli":10,"free":10,"fx4":[7,9,10],"mode":[9,10],"nsls2_em":7,"nsls_em":7,"overview":4,"perform":5,"plugin":[6,10],"quadem":[1,3,10],"run":10,"scan":10,"seri":7,"setup":7,"singl":10,"statist":10,"step":10,"stream":8,"tabl":3,"templat":1,"tetramm":[5,7,9,10],"trigger":[9,10],"use":2}})

diff --git a/tetramm_scanning.html b/tetramm_scanning.html
@@ -222,7 +222,8 @@ In this example the AveragingTime was set to 1.0 second, much longer than the 0.
 generating the trigger pulses.</p></li>
 <li><p>Wait for the motion to complete and then read the time series waveform records, e.g. TSMeanValue, etc.</p></li>
 </ul>
-<p>This is a plot of Current1:TSMeanValue after the scan.  The retrace to 0 on the last point is a bug in medm.</p>
+<p>This is a plot of Current1:TSMeanValue after the scan. The retrace at the last point is a bug in medm.
+The vertical scale is expanded to show the small variations in the current.</p>
 <figure class="align-center">
 <img alt="_images/tetramm_fly_triggered_current1_mean_plot_after.png" src="_images/tetramm_fly_triggered_current1_mean_plot_after.png" />
 </figure>
